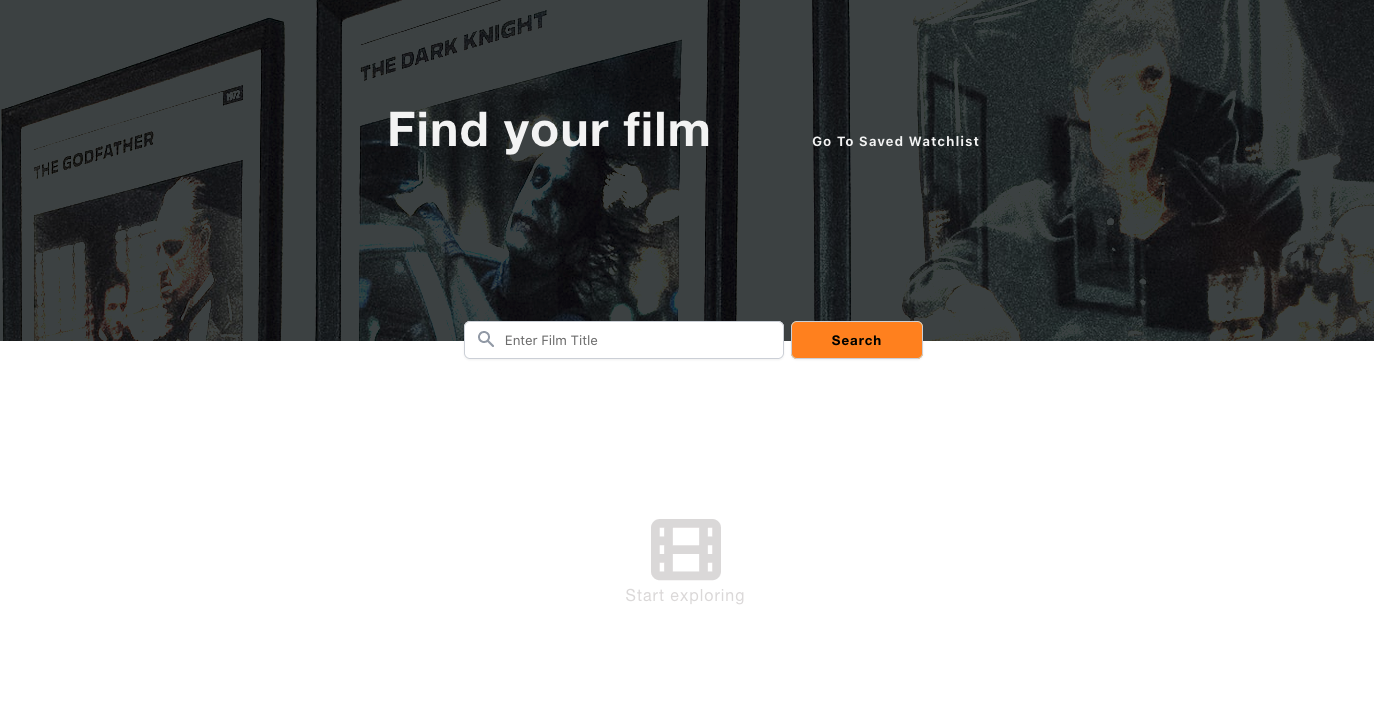
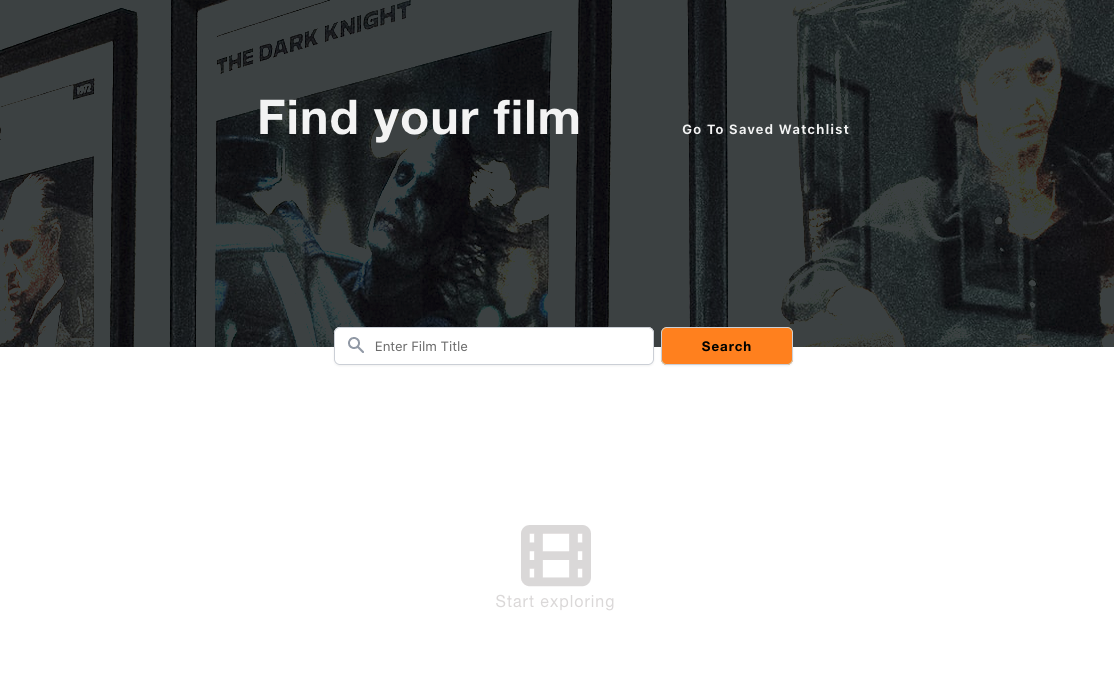
reset images and cleaned up css

diff --git a/index.html b/index.html
@@ -75,7 +75,7 @@
 
             <div class="about-me__body">
                 <p>Frontend Developer with a passion for simple functional designs. Experience working with HTML, CSS, JavaScript and React.</p>
-               <p>Formerly a supply chain and operations professional, now transitioning into the world of web development.</p>
+               <p>Former startup supply chain and operations professional transitioning into the world of web development and software engineering.</p>
             </div>
 
             <img src="./images/hero_secondary.jpeg" alt="Anthony standing with arms crossed" class="about-me__img">
@@ -109,9 +109,6 @@
                     </div>
                 </div>
             
-                <a href="#" class="portfolio__item">
-                    <h2>Pic-Some <br>(coming soon)</h2>
-                </a>
             </div>
         </section>
 
@@ -121,12 +118,12 @@
             <ul class="social-list">
                 <li class="social-list__item">
                     <a class="social-list__link" href="https://github.com/amart114">
-                        <i class="fa-brands fa-github"></i>
+                        <i class="fa-brands fa-github fa-2x"></i>
                     </a>
                 </li>
                 <li class="social-list__item">
                     <a class="social-list__link" href="https://www.linkedin.com/in/amartin7789/">
-                        <i class="fa-brands fa-linkedin"></i>
+                        <i class="fa-brands fa-linkedin fa-2x"></i>
                     </a>
                 </li>
             </ul>

diff --git a/css/style.css b/css/style.css
@@ -397,19 +397,10 @@ header {
     color: var(--clr-light);
 }
 
-.portfolio__item img {
-    max-height: 250px;
-}
-
 .portfolio__links {
     display: flex;
     align-items: center;
     justify-content:space-between;
-    max-width: 475px;
-}
-
-.portfolio__links h3 {
-    text-align: center;
 }
 
 .repo__link,
@@ -418,18 +409,16 @@ header {
     padding: 0.5em;
 }
 
-.rep__link {
-    margin-right: 1em;
+.repo__link:hover,
+.demo__link:hover {
+    opacity: 0.7;
 }
 
 .demo__link {
     font-size: var(--fs-h3);
     font-weight: var(--fw-bold);
     text-decoration: none;
-    margin: 0;
 }
-
-
 
 /* Footer */
 

diff --git a/README.md b/README.md
@@ -1,2 +1,4 @@
 # portfolio
-A simple portfolio for my web dev work
+A simple portfolio for my web dev work.
+
+Deployed using Netlify at - https://anthony-martin-portfolio.netlify.app/
